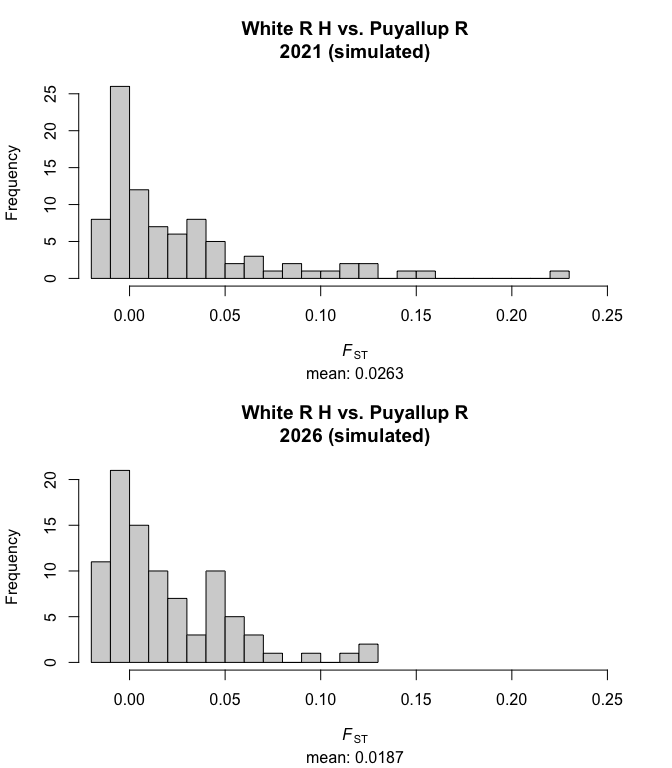
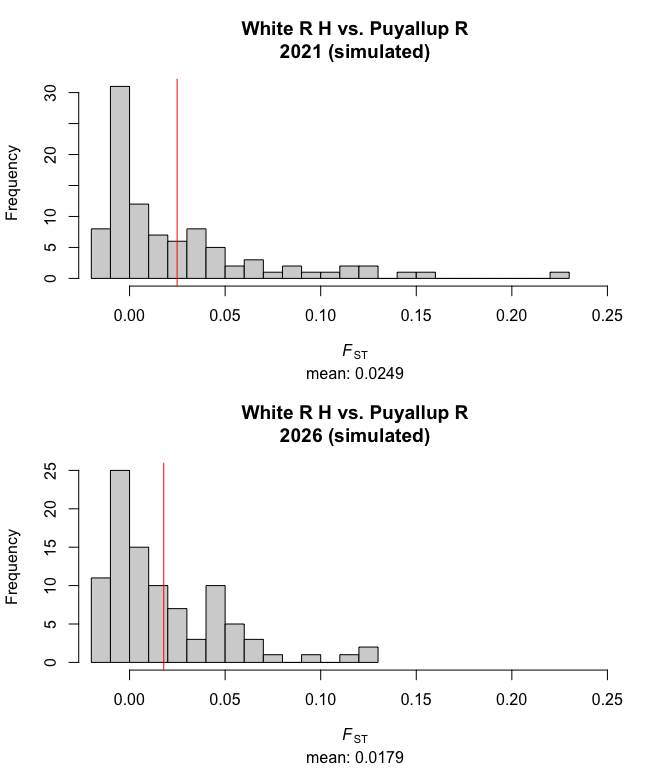
polish

diff --git a/Puyallup-conservation-measures.md b/Puyallup-conservation-measures.md
@@ -1,16 +1,63 @@
-Puyallup Conservation Measures & Proposals
+Statistical Hypothesis Test for Hybridization w/ Introgression
 ================
+Tyler McCraney
 
-This is an exploratory analysis of one idea I have to test for
-hybridization w/ introgression of White River spring run and Puyallup
-River fall run Chinook salmon. It is based on a 2-sample permutation
-test of FST estimates of White River spring run and Puyallup River fall
-run from different time points. To demonstrate the test, I simulate
-genetic data sampled at 3 different time points: 2021, 2026, and 2031. I
-simulated the data so FST would decrease slightly (by chance alone) from
-2021 to 2026, and then decrease extremely from 2026 to 2031 to simulate
-a hypothetical scenario of hybridization of White River spring run and
-Puyallup River fall run w/ complete introgression.
+This is an exploratory analysis of one idea I have for a statistical
+hypothesis test for hybridization w/ introgression of White River spring
+run and Puyallup River fall run Chinook salmon.
+
+The White River spring run and Puyallup River fall run Chinook salmon
+stocks exhibit a low degree of genetic structure (e.g., FST = 0.025) but
+can be assigned with high certainty in GSI applications. The White R
+stock is supplemented by conservation hatcheries while the Puyallup R
+stock is supplemented by production hatcheries.
+
+Concerns have been raised about the potential risk for loss of the
+unique spring run life history of the smaller White River stock due to
+hybridization w/ introgression with the larger Puyallup River fall run
+stock. A genetics-based test is desired to determine if hybridization w/
+introgression is increasing because of Puyallup R fall run production.
+
+When hybridization w/ introgression happens, differences in allele
+frequencies between populations are lost, So after this happens there
+are no differences in allele frequencies between samples that are
+greater than would be expected to happen by chance alone.
+
+FST measures allele frequency differences between samples. It ranges
+from 0, indicating no genetic difference between two samples, to 1,
+indicating complete genetic difference between the two samples (i.e.,
+when FST = 1, sample 1: 100% allele 1 and sample 2: 100% allele 2).
+
+If hybridization w/ introgression is increasing, then I expect FST
+estimates for White R spring run versus Puyallup River fall run to
+decrease. Therefore, the test statistic is the difference in FST (∆FST)
+estimated at time 1 (t1) and t2. For instance, if `FST = 0.025` at t1
+and `FST = 0.005` at t2, then our test statistic is
+`∆FST = 0.005 - 0.025 = -0.02`, Alternatively, ∆FST could be positive,
+which would indicate an increase in FST estimated at t1 and t2.
+
+We need a robust statistical hypothesis test to determine if our test
+statistic is significantly greater than would be expected to occur by
+chance alone. A 2-sample permutation test can be used to determine if
+∆FST is greater than would be expected by chance alone. This is
+essentially a non-parameteric version of the classic two-way t test: a
+statistical hypothesis test that checks whether a difference between
+means is statistically significant or likely due to chance. This
+framework is appropriate because FST is actually the mean of many
+independent FSTs estimated from multiple loci, so we want to determine
+if the mean FST is significantly different at 2 sampling points.
+
+To demonstrate the test, I simulate genetic data sampled at 3 different
+time points: 2021, 2026, and 2031. I simulated the data so FST would
+decrease substantially (by chance alone) from 2021 to 2026, and then
+decrease significantly from 2026 to 2031 to simulate a hypothetical
+scenario of hybridization of White River spring run and Puyallup River
+fall run w/ complete introgression.
+
+I purposely simulated data with small sample sizes and few loci that
+would produce FST estimates with high stochastic error in order to
+demonstrate how the statistical hypothesis test works. In practice,
+large sample sizes and many loci are used.
 
 First we import Chinook salmon genotypes from Van Doornick et al. 2024,
 filter the White River and Puyallup River samples, edit the sample
@@ -81,7 +128,7 @@ Now lets estimate FST from data at these 2 simulated timepoints. FST is
 estimated for each locus independently, so we’ll get n=94 FST estimates.
 Some of these estimates will be `NA` just by chance, since there are
 loci with very low minor allele frequencies, they will likely be fixed
-in the simulated datasets.
+in the simulated datasets. They are actually FST = 0 so lets fix that.
 
 ``` r
 Fst_A <- 
@@ -92,70 +139,66 @@ Fst_B <-
   Fst(B)[, 2] |> 
   as.double()
 
-sum(is.na(Fst_A))
+Fst_A[is.na(Fst_A)] <- 
+  0
+
+Fst_B[is.na(Fst_B)] <- 
+  0
 ```
 
-    ## [1] 5
+There were 5 SNPs fixed in the “A” data and 4 in the “B” data, and I set
+those to all to 0.
 
-``` r
-sum(is.na(Fst_B))
-```
-
-    ## [1] 4
-
-We see above that 5 SNPs were fixed in the “A” data and 4 in the “B”
-data. One nice thing about this permutation test is that it’s robust to
-missing data.
-
-Now let’s take the mean of the n=94 FST estimates to get the overall
-FST.
+Now let’s take the mean of the two independent n=94 FST estimates to get
+the overall FST for sample A and sample B.
 
 ``` r
 mean(Fst_A, na.rm=TRUE)
 ```
 
-    ## [1] 0.0262805
+    ## [1] 0.0248826
 
 ``` r
 mean(Fst_B, na.rm=TRUE)
 ```
 
-    ## [1] 0.01868376
+    ## [1] 0.01788871
 
 These FSTs are different just by chance alone. Let’s plot the
-distributions with the mean FST annotated below the x-axis labels.
+distributions with the mean FST annotated below the x-axis labels and
+with a red line.
 
 ``` r
 par(mfrow=c(2, 1))
 
-hist(Fst_A, breaks=30, xlim=c(min(c(Fst_A, Fst_B), na.rm=TRUE)*1.2, max(c(Fst_A, Fst_B), na.rm=TRUE)*1.1), main="White R H vs. Puyallup R\n2021 (simulated)", sub=paste("mean:", mean(Fst_A, na.rm=TRUE) |> round(digits=4)), xlab=expression(italic(F)[ST]))
+hist(Fst_A, breaks=30, xlim=c(min(c(Fst_A, Fst_B), na.rm=TRUE)*1.2, max(c(Fst_A, Fst_B), na.rm=TRUE)*1.1), main="White R H vs. Puyallup R\n2021 (simulated)", sub=paste("mean:", mean(Fst_A, na.rm=TRUE) |> round(digits=4)), xlab=expression(italic(F)[ST])); abline(v=mean(Fst_A, na.rm=TRUE), col="red")
 
-hist(Fst_B, breaks=20, xlim=c(min(c(Fst_A, Fst_B), na.rm=TRUE)*1.2, max(c(Fst_A, Fst_B), na.rm=TRUE)*1.1), main="White R H vs. Puyallup R\n2026 (simulated)", sub=paste("mean:", mean(Fst_B, na.rm=TRUE) |> round(digits=4)), xlab=expression(italic(F)[ST]))
+hist(Fst_B, breaks=20, xlim=c(min(c(Fst_A, Fst_B), na.rm=TRUE)*1.2, max(c(Fst_A, Fst_B), na.rm=TRUE)*1.1), main="White R H vs. Puyallup R\n2026 (simulated)", sub=paste("mean:", mean(Fst_B, na.rm=TRUE) |> round(digits=4)), xlab=expression(italic(F)[ST])); abline(v=mean(Fst_B, na.rm=TRUE), col="red")
 ```
 
 ![](Puyallup-conservation-measures_files/figure-gfm/unnamed-chunk-5-1.png)<!-- -->
 
-These distributions and mean FSTs look kinda different. Are they
-significantly different? We need a statistical test to answer that!
+These distributions and mean FSTs look sort of different. Are they
+significantly different? We need a statistical test to answer that…
 
 Let’s define our test statistic as the difference in mean FSTs estimated
-at 2 different timepoints.
+at 2 different timepoints: ∆FST.
 
 ``` r
 mean(Fst_B, na.rm=TRUE) - mean(Fst_A, na.rm=TRUE)
 ```
 
-    ## [1] -0.007596733
+    ## [1] -0.006993888
 
 This is negative (by design), to simulate a noticible decrease of
-genetic differentiation between White R and Puyallup River that could be
-expected to happen by chance alone.
+genetic differentiation between White R and Puyallup River that might be
+interpreted by a reasonable person to be “substantially different”, yet
+it actually happened by chance alone.
 
 Now let’s generate a null distribution of our test statistic. We do this
 with a 4 step routine: (1) shuffle FSTs between populations, (2) compute
 the mean FSTs from shuffled samples, (3) compute the difference of the
-mean FSTs (i.e., the permuted test statistic), and (4) repeat steps 1-3
-at least 1,000 times.
+mean FSTs (i.e., the permuted ∆FST), and (4) repeat steps 1-3 999 times.
 
 ``` r
 AB <- 
@@ -176,11 +219,11 @@ set.seed(13)
 for(i in 1:1000){permuteAB[i] <- permute2samplet(x=AB, n_loci=94)}
 ```
 
-Okay now let’s compute a non-parametric “p-value” for the test. This is
-simply the proportion of the permuted test statistics that are more
+Okay now let’s calculate a non-parametric “p-value” for the test. This
+is simply the proportion of the permuted test statistics that are more
 extreme than our observed test statistic. We use the absolute values of
-test statistics to make it 2-tailed, since we expect both FST increases
-and decreases to occur in nature just by chance alone.
+∆FSTs to make it 2-way, since we expect both FST increases and decreases
+to occur just by chance alone in nature.
 
 ``` r
 obsAB <-
@@ -193,10 +236,10 @@ par(mfrow=c(1, 1))
 mean(abs(c(permuteAB, obsAB)) >= abs(obsAB))
 ```
 
-    ## [1] 0.1898102
+    ## [1] 0.2097902
 
 ``` r
-hist(c(permuteAB, obsAB), xlab=expression(italic(F)[ST]~differences), breaks=30, main=paste("p-value:", mean(abs(c(permuteAB, obsAB)) >= abs(obsAB)) |> round(digits=5)))
+hist(c(permuteAB, obsAB), xlab=expression(Null~Distribution~of~Delta~italic(F)[ST]), breaks=30, main=paste("p-value:", mean(abs(c(permuteAB, obsAB)) >= abs(obsAB)) |> round(digits=5)))
 
 abline(v=obsAB, lty=2, col="blue")
 ```
@@ -212,11 +255,11 @@ Now lets simulate a third dataset “C” that is designed to result in an
 extreme decrease in the FST estimate. Under the scenario of
 hybridization w/ introgression, the White R spring run and Puyallup R
 fall run would become a single population, and the distinctiveness of
-those 2 ancestral populations would be lost forever. Lets simulate that
-grim scenario by creating White and Puyallup data that is really only
-from the White R with half of the samples randomly labeled “Puyallup R”.
-We could do this vice-versa and it would simulate the same scenario but
-I am not going to show that.
+those 2 populations would be lost forever. Lets simulate that scenario
+by creating White and Puyallup data that is really only from the White R
+with half of the samples randomly labeled “Puyallup R”. We could do this
+vice-versa and it would simulate the same scenario but I am not going to
+show that.
 
 ``` r
 set.seed(2)
@@ -241,35 +284,38 @@ Fst_C <-
   Fst(C)[, 2] |> 
   as.double()
 
+Fst_C[is.na(Fst_C)] <- 
+  0
+
 mean(Fst_A, na.rm=TRUE); mean(Fst_B, na.rm=TRUE); mean(Fst_C, na.rm=TRUE)
 ```
 
-    ## [1] 0.0262805
+    ## [1] 0.0248826
 
-    ## [1] 0.01868376
+    ## [1] 0.01788871
 
-    ## [1] 0.0007207086
+    ## [1] 0.0006900401
 
 We can see above that our simulated data produced the desired pattern in
-FST: slight decrease from t1 to t2 (e.g., 2021 to 2026) followed by an
+∆FST: slight decrease from t1 to t2 (e.g., 2021 to 2026) followed by an
 extreme decrease from t2 to t3 (e.g., 2026 to 2031). Now lets plot these
 distributions so we can see what that looks like.
 
 ``` r
 par(mfrow=c(3, 1))
 
-hist(Fst_A, breaks=30, xlim=c(min(c(Fst_A, Fst_B, Fst_C), na.rm=TRUE)*1.2, max(c(Fst_A, Fst_B, Fst_C), na.rm=TRUE)*1.1), main="White R H vs. Puyallup R\n2021 (simulated)", sub=paste("mean:", mean(Fst_A, na.rm=TRUE) |> round(digits=4)), xlab=expression(italic(F)[ST]))
+hist(Fst_A, breaks=30, xlim=c(min(c(Fst_A, Fst_B, Fst_C), na.rm=TRUE)*1.2, max(c(Fst_A, Fst_B, Fst_C), na.rm=TRUE)*1.1), main="White R H vs. Puyallup R\n2021 (simulated)", sub=paste("mean:", mean(Fst_A, na.rm=TRUE) |> round(digits=4)), xlab=expression(italic(F)[ST])); abline(v=mean(Fst_A, na.rm=TRUE), col="red")
 
-hist(Fst_B, breaks=20, xlim=c(min(c(Fst_A, Fst_B, Fst_C), na.rm=TRUE)*1.2, max(c(Fst_A, Fst_B, Fst_C), na.rm=TRUE)*1.1), main="White R H vs. Puyallup R\n2026 (simulated)", sub=paste("mean:", mean(Fst_B, na.rm=TRUE) |> round(digits=4)), xlab=expression(italic(F)[ST]))
+hist(Fst_B, breaks=20, xlim=c(min(c(Fst_A, Fst_B, Fst_C), na.rm=TRUE)*1.2, max(c(Fst_A, Fst_B, Fst_C), na.rm=TRUE)*1.1), main="White R H vs. Puyallup R\n2026 (simulated)", sub=paste("mean:", mean(Fst_B, na.rm=TRUE) |> round(digits=4)), xlab=expression(italic(F)[ST])); abline(v=mean(Fst_B, na.rm=TRUE), col="red")
 
-hist(Fst_C, breaks=10, xlim=c(min(c(Fst_A, Fst_B, Fst_C), na.rm=TRUE)*1.2, max(c(Fst_A, Fst_B, Fst_C), na.rm=TRUE)*1.1), main="White R H vs. Puyallup R\n2031 (simulated)", sub=paste("mean:", mean(Fst_C, na.rm=TRUE) |> round(digits=4)), xlab=expression(italic(F)[ST]))
+hist(Fst_C, breaks=10, xlim=c(min(c(Fst_A, Fst_B, Fst_C), na.rm=TRUE)*1.2, max(c(Fst_A, Fst_B, Fst_C), na.rm=TRUE)*1.1), main="White R H vs. Puyallup R\n2031 (simulated)", sub=paste("mean:", mean(Fst_C, na.rm=TRUE) |> round(digits=4)), xlab=expression(italic(F)[ST])); abline(v=mean(Fst_C, na.rm=TRUE), col="red")
 ```
 
 ![](Puyallup-conservation-measures_files/figure-gfm/unnamed-chunk-10-1.png)<!-- -->
 
 The pattern is clear: FST declines to zero as would be expected under
 the scenario of hybridization w/ introgression. Now lets run the
-statistical test to demonstrate how to quantify significance.
+statistical test to demonstrate how to quantify significance of ∆FST.
 
 ``` r
 BC <- 
@@ -288,12 +334,12 @@ obsBC <-
 obsBC
 ```
 
-    ## [1] -0.01796306
+    ## [1] -0.01719867
 
-We see our observed test statistic above indicating a big decrease in
-FST. We compute the non-parametric “p-value” as in the same manner as
-before but we see a very small value this time which indicates a
-significant decrease in FST from t2 to t3.
+We see our observed test statistic above (`∆FST = -0.018`) indicating a
+big decrease in FST. We compute the non-parametric “p-value” as in the
+same manner as before but this time we see a very small p-value which
+indicates a statistically significant difference in FST from t2 to t3.
 
 ``` r
 par(mfrow=c(1, 1))
@@ -305,7 +351,7 @@ mean(abs(c(permuteBC, obsBC)) >= abs(obsBC))
     ## [1] 0.000999001
 
 ``` r
-hist(c(permuteBC, obsBC), xlab=expression(italic(F)[ST]~differences), breaks=30, main=paste("p-value:", mean(abs(c(permuteBC, obsBC)) >= abs(obsBC)) |> round(digits=5)))
+hist(c(permuteBC, obsBC), xlab=expression(Null~Distribution~of~Delta~italic(F)[ST]), breaks=30, main=paste("p-value:", mean(abs(c(permuteBC, obsBC)) >= abs(obsBC)) |> round(digits=5)))
 
 abline(v=obsBC, lty=2, col="blue")
 ```
@@ -317,11 +363,15 @@ test statistic is more extreme than the observed test statistic (which
 we always include in the vector of null test statistics just to ensure
 our p-value doesn’t compute as 0).
 
-I hope this example will be easy to digest. One important thing would be
-to run through this test with the actual reference dataset used by DFW
-for this system. DFW has excellent reference data for the Puyallup-White
-Chinook, and using larger numbers of fish, say for example n=100 in each
-White R spring and Puyallup R fall, to estimate FST of the full 298 SNP
-panel will result in much less stochasticity of FST than the toy
-examples I presented here, which had only 94 SNPs and about n=45 fish
-per population.
+This is just one example of a possible genetic application to test for
+hybridization w/ introgression. Another idea would be to use STRUCTURE
+for this, which is more sophisticated but can also be difficult to
+interpret.
+
+One important thing would be to run through this test and any others
+with the actual reference dataset used by DFW for this system. DFW has
+excellent reference data for the Puyallup-White Chinook, and using
+larger numbers of fish, say for example n=100 in each White R spring and
+Puyallup R fall, to estimate FST of the full 298 SNP panel will result
+in much less stochasticity of FST than the toy examples I presented
+here, which had only 94 SNPs and about n=45 fish per population.
